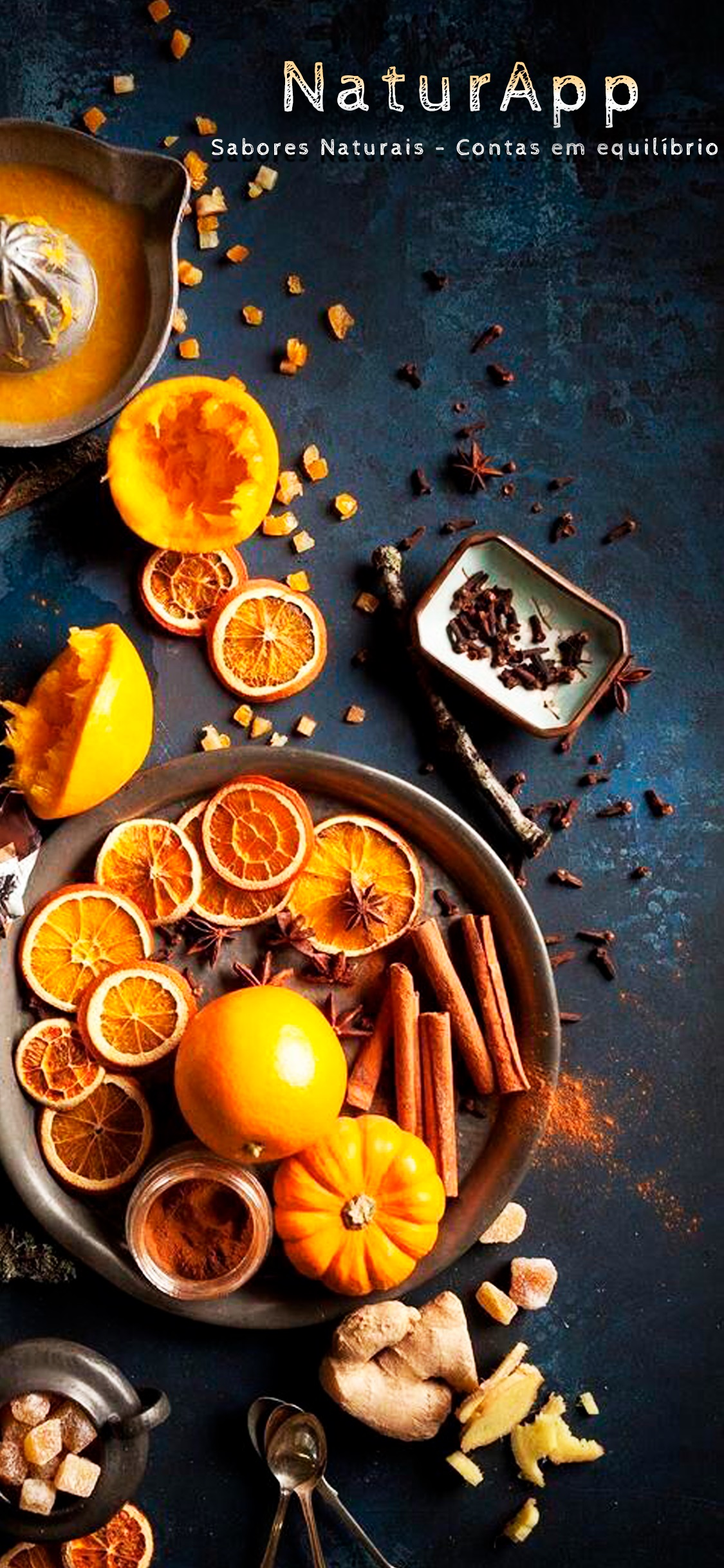
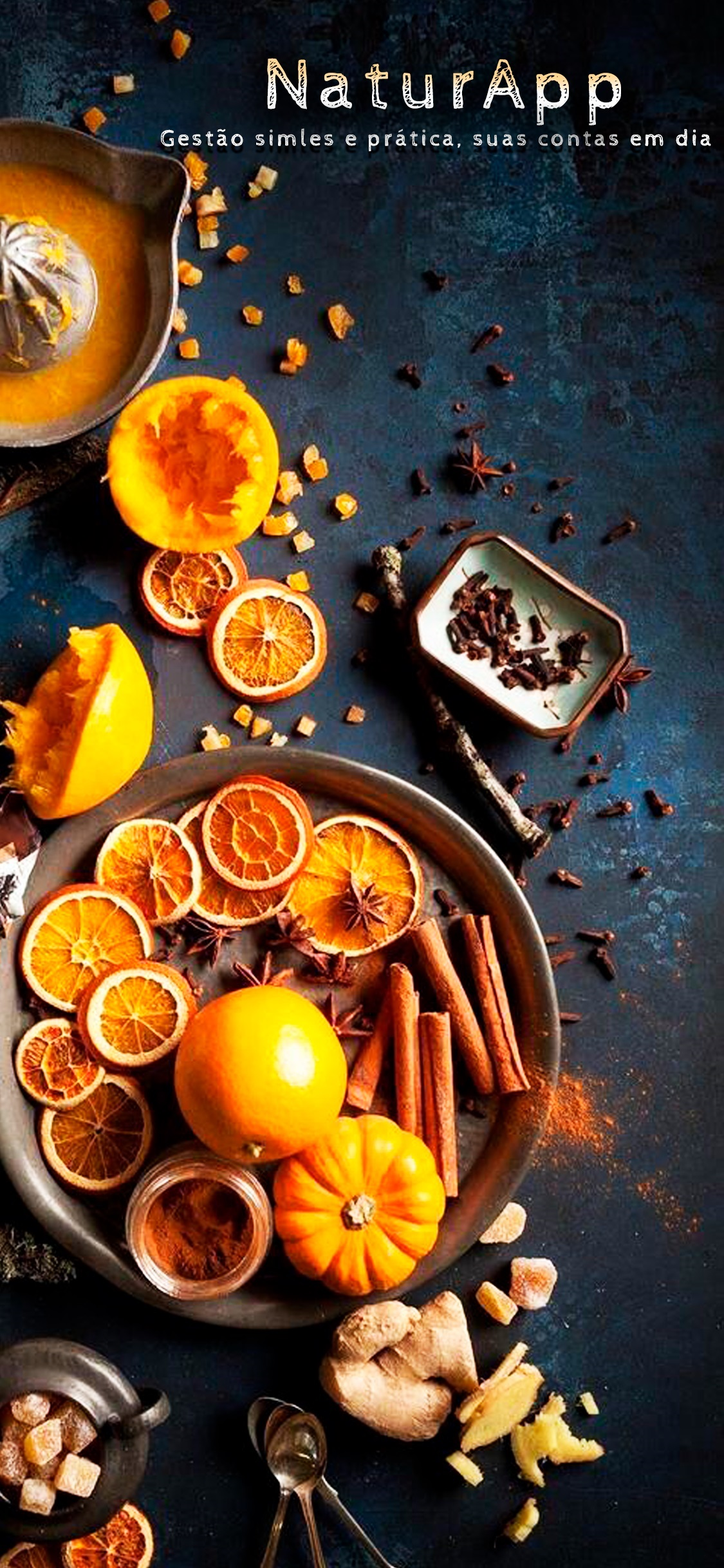
ADD Tela 'Gerenciamento de Gastos' +Icone

Changed region(s): [[0.2178, 0.0312, 0.9956, 0.1248]]

diff --git a/src/components/Historico.js b/src/components/Historico.js
@@ -1,11 +1,12 @@
 import React, { useEffect, useState } from 'react';
 import { Link } from 'react-router-dom';
-import { getAllSales, deleteSale } from '../indexedDB';
+import { getAllSales, deleteSale, getAllExpenses, deleteExpense } from '../indexedDB';
 import '../App.css';
 
 const Historico = () => {
   const [sales, setSales] = useState([]);
   const [dailyTotal, setDailyTotal] = useState(0);
+  const [expenses, setExpenses] = useState([]);
 
   useEffect(() => {
     const fetchData = async () => {
@@ -14,9 +15,11 @@ const Historico = () => {
         ...sale,
         total: sale.sanduiches * 5 + sale.caldo * 5 + sale.cafe * 2 // Ajuste os preços conforme necessário
       }));
-
       setSales(salesWithTotal);
       calculateDailyTotal(salesWithTotal);
+
+      const allExpenses = await getAllExpenses();
+      setExpenses(allExpenses);
     };
     fetchData();
   }, []);
@@ -28,9 +31,14 @@ const Historico = () => {
       ...sale,
       total: sale.sanduiches * 5 + sale.caldo * 5 + sale.cafe * 2 // Ajuste os preços conforme necessário
     }));
-
     setSales(salesWithTotal);
     calculateDailyTotal(salesWithTotal);
+  };
+
+  const handleDeleteExpense = async (id) => {
+    await deleteExpense(id);
+    const updatedExpenses = await getAllExpenses();
+    setExpenses(updatedExpenses);
   };
 
   const calculateDailyTotal = (sales) => {
@@ -81,19 +89,32 @@ const Historico = () => {
 
       <div className="historico-gastos">
         <h3>Histórico de Gastos</h3>
-        <table className="historico-table">
-          <thead>
-            <tr>
-              <th>Data</th>
-              <th>Valor</th>
-              <th>Descrição</th>
-              <th>Ações</th>
-            </tr>
-          </thead>
-          <tbody>
-            {/* Adicione as linhas de despesas aqui */}
-          </tbody>
-        </table>
+        <div className="table-scrollable">
+          <table className="historico-table">
+            <thead>
+              <tr>
+                <th>Data</th>
+                <th>Valor</th>
+                <th>Descrição</th>
+                <th>Ações</th>
+              </tr>
+            </thead>
+            <tbody>
+              {expenses.map((expense) => (
+                <tr key={expense.id} className="historico-row">
+                  <td>{expense.data}</td>
+                  <td>{expense.valor}</td>
+                  <td>{expense.descricao}</td>
+                  <td>
+                    <button className="delete-button" onClick={() => handleDeleteExpense(expense.id)}>
+                      <i className="fas fa-trash-alt"></i>
+                    </button>
+                  </td>
+                </tr>
+              ))}
+            </tbody>
+          </table>
+        </div>
       </div>
 
       <Link to="/" className="historico-link">

diff --git a/src/components/GerenciamentoDeGastos.js b/src/components/GerenciamentoDeGastos.js
@@ -1,21 +1,71 @@
-import React from 'react';
+import React, { useState } from 'react';
 import { Link } from 'react-router-dom';
 import '../App.css'; // Importe seu arquivo CSS principal aqui
+import { addExpense } from '../indexedDB'; // Importe a função addExpense
 
-const GerenciamentoDeGastos = () => (
-  <div className="content">
-    <h1>Gerenciamento de Gastos</h1>
-    <p>Conteúdo da página Gerenciamento de Gastos</p>
-    
-    <Link to="/">
-      <button className="app-button">
-       <i className="fas fa-chevron-left"></i><strong> Voltar </strong>
-      </button>
-    </Link>
+const GerenciamentoDeGastos = () => {
+  const [valor, setValor] = useState('');
+  const [descricao, setDescricao] = useState('');
+  const [data, setData] = useState('');
+
+  const handleSave = async () => {
+    const expense = { valor, descricao, data };
+    await addExpense(expense);
+    setValor('');
+    setDescricao('');
+    setData('');
+  };
+
+  return (
+    <div className="content">
+      
+      <form className='form-gastos' onSubmit={(e) => { e.preventDefault(); handleSave(); }}>
+      <h1>Gerenciamento de Gastos</h1>
+        <div>
+          <label>Investimento:</label>
+          <input
+            type="number"
+            value={valor}
+            onChange={(e) => setValor(e.target.value)}
+          />
+        </div>
+        <div>
+          <label>Descrição:</label>
+          <input className='input-descricao'
+            type="text"
+            value={descricao}
+            onChange={(e) => setDescricao(e.target.value)}
+          />
+        </div>
+        <div>
+          <label>Data:</label>
+          <input
+            type="date"
+            value={data}
+            onChange={(e) => setData(e.target.value)}
+          />
+        </div>
+        <div className='botoes-gastos'>
+          <button type="submit" className="app-button">
+          <i className="fas fa-save"></i><strong> Salvar </strong>
+          </button>
+        
+          <Link to="/">
+          <button className="app-button">
+            <i className="fas fa-chevron-left"></i><strong> Voltar </strong>
+          </button>
+          </Link>
+        </div>
 
 
-
-  </div>
-);
+      
+      
+      
+      </form>
+      
+      
+    </div>
+  );
+};
 
 export default GerenciamentoDeGastos;

diff --git a/src/App.css b/src/App.css
@@ -46,12 +46,12 @@ body{
 
 .App-header {
   width: 100%;
-  height: 640px;
+  height: 620px;
   padding: 10px;
   background-color: #2e1f00ce;
   color: #ffffff;
   text-align: center;
-  margin-top: 30%;
+  margin-top: 24%;
   padding-top: 5%; 
   opacity: 0;
   animation: fadeIn 1s forwards; /* Animação de fade-in */
@@ -263,7 +263,7 @@ margin-right: 3%;
 .vendas-form label {
   display: flex;
   flex-direction: column;
-  font-family: 'Gill Sans', 'Gill Sans MT', Calibri, 'Trebuchet MS', sans-serif;
+  font-family:'Segoe UI', Tahoma, Geneva, Verdana, sans-serif;
   
 }
 
@@ -271,7 +271,7 @@ margin-right: 3%;
   padding: 8px;
   font-size: 1em;
   border: 1px solid #ccc;
-  border-radius: 5px;
+  border-radius: 2px;
   
 }
 
@@ -393,14 +393,53 @@ margin-right: 3%;
   border-top: 10px solid #000000a2;
   animation: fadeIn 1s forwards; /* Animação de fade-in */
 }
+.form-gastos {
+  background-color: #2e1f00ce; /* Mesma cor de fundo da página inicial */
+  color: #ffffff;
+  padding: 20px;
+  border-radius: 5px;
+  width: 100%;
+  margin: 0 auto;
+  box-shadow: 0 4px 6px rgba(0, 0, 0, 0.1);
+  animation: fadeIn 1s forwards; /* Animação de fade-in */
+  margin-top: 25%;
+  
+  height: 620px;
+}
 
+
+form label {
+  display: flex;
+  flex-direction: column;
+  font-family: 'Gill Sans', 'Gill Sans MT', Calibri, 'Trebuchet MS', sans-serif;
+}
+
+.input-descricao{
+  padding-bottom: 20%;
+}
+
+form input {
+  padding: 8px;
+  font-size: 1em;
+  width: 100%;
+  border: 1px solid #ccc;
+  border-radius: 5px;
+  margin-bottom: 5%;
+}
+
+.botoes-gastos{
+  margin-top: 27%;
+  display: flex;
+  flex-direction: column;
+  gap: 17px;    
+}
 
 
 /* Rodapé */
 .footer {
   text-align: center;
-  padding-left: 35%;
-  margin-top: 45%;
+  padding-left: 32%;
+  margin-top: 39%;
   position: relative;
   
   width: 100%;
@@ -408,12 +447,12 @@ margin-right: 3%;
 
 .footer-container{
   background-color: #837c1a1a;
-  margin-top: 20%;
+  margin-top: 10%;
   border-radius: 5%;
   box-shadow: 0 1px 3px rgba(255, 208, 0, 0.6), 0 8px 16px rgba(105, 87, 3, 0.3);}
 
 .footer h4 {
-  font-size: 15px;
+  font-size: 13px;
   color: #ffe7b3;
   font-family:'Gill Sans', 'Gill Sans MT', Calibri, 'Trebuchet MS', sans-serif;
 }

diff --git a/src/indexedDB.js b/src/indexedDB.js
@@ -1,7 +1,7 @@
 // src/indexedDB.js
 
 const DATABASE_NAME = 'MinhasContasApp';
-const DATABASE_VERSION = 1;
+const DATABASE_VERSION = 2; // Incrementa a versão do banco de dados para forçar a atualização
 const SALES_STORE_NAME = 'vendas';
 const EXPENSES_STORE_NAME = 'custos'; // Nome do novo store para custos
 
@@ -62,7 +62,19 @@ export const addExpense = async (expense) => {
   return store.add(expense);
 };
 
-
+export const getAllExpenses = async () => {
+  const db = await openDB();
+  const store = db.transaction(EXPENSES_STORE_NAME, 'readonly').objectStore(EXPENSES_STORE_NAME);
+  return new Promise((resolve, reject) => {
+    const request = store.getAll();
+    request.onsuccess = () => {
+      resolve(request.result);
+    };
+    request.onerror = (event) => {
+      reject('Erro ao obter dados: ' + event.target.errorCode);
+    };
+  });
+};
 
 export const deleteExpense = async (id) => {
   const db = await openDB();

diff --git a/public/index.html b/public/index.html
@@ -2,11 +2,17 @@
 <html lang="en">
   <head>
     <meta charset="utf-8" />
-    <link rel="icon" href="%PUBLIC_URL%/favicon.ico" />
+    <link rel="icon" href="/icons/icon-192x192.png" />
     <meta name="viewport" content="width=device-width, initial-scale=1" />
     <meta name="theme-color" content="#000000" />
     <meta name="description" content="Web site created using create-react-app" />
-    <link rel="manifest" href="%PUBLIC_URL%/manifest.json" />
+    <link rel="manifest" href="/manifest.json" />
+    <link rel="apple-touch-icon" href="/icons/icon-192x192.png">
+    
+    <meta name="apple-mobile-web-app-capable" content="yes">
+    <meta name="apple-mobile-web-app-status-bar-style" content="default">
+    <meta name="apple-mobile-web-app-title" content="NatureApp">
+    
     <link rel="stylesheet" href="https://cdnjs.cloudflare.com/ajax/libs/font-awesome/6.0.0-beta3/css/all.min.css">
 
     <title>NaturAPP</title>

diff --git a/src/components/VendasDoDia.js b/src/components/VendasDoDia.js
@@ -34,7 +34,7 @@ const VendasDoDia = () => {
       <h1>Vendas do Dia</h1>
       <form onSubmit={handleSubmit} className="vendas-form">
         <label>
-          Sanduíches:
+          Sanduíche:
           <input 
             type="number" 
             name="sanduiches" 
